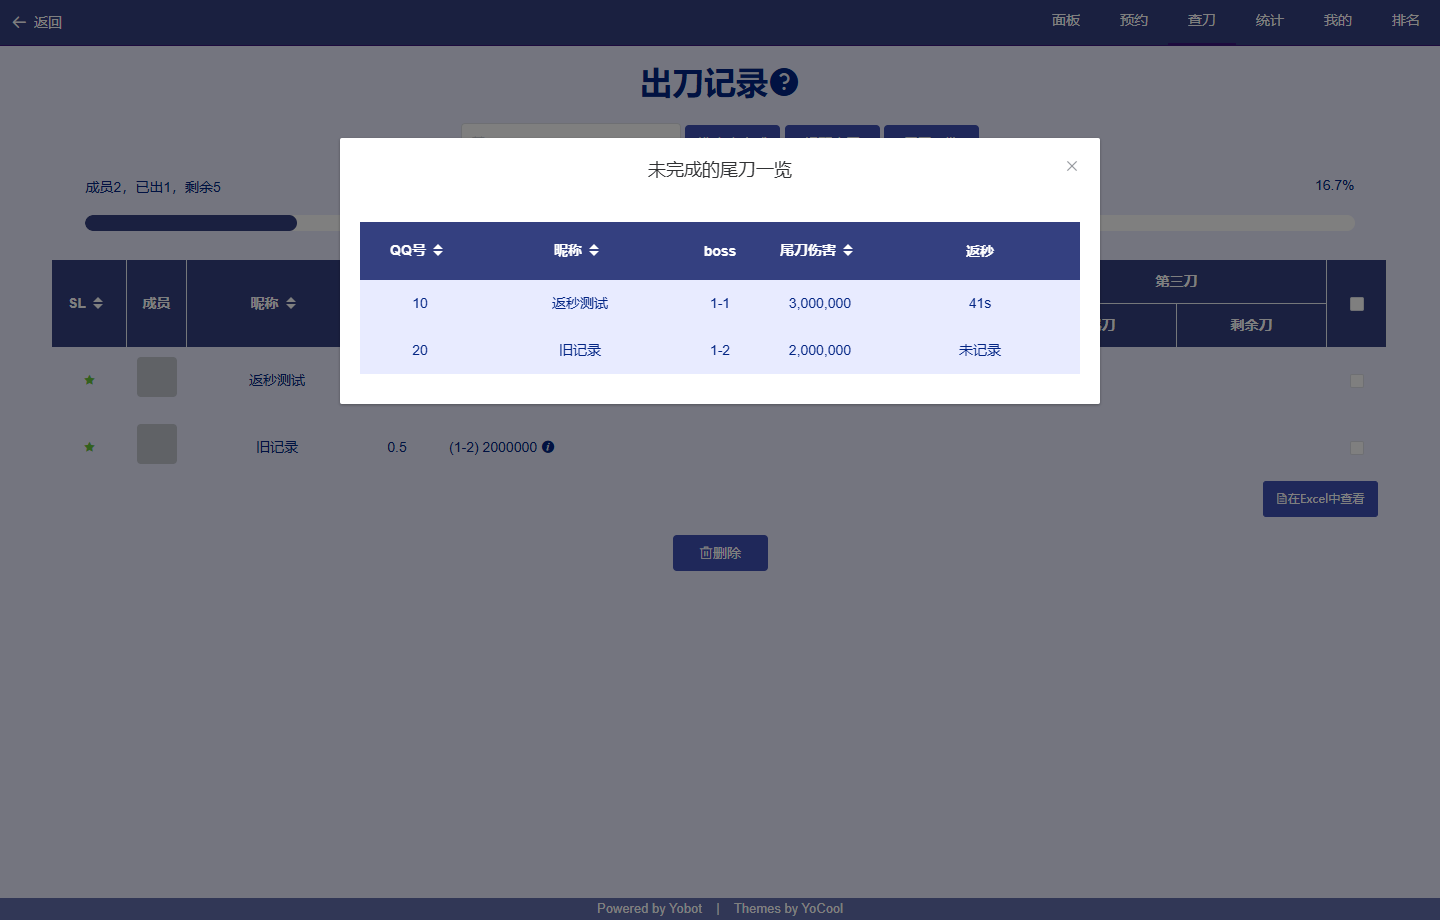
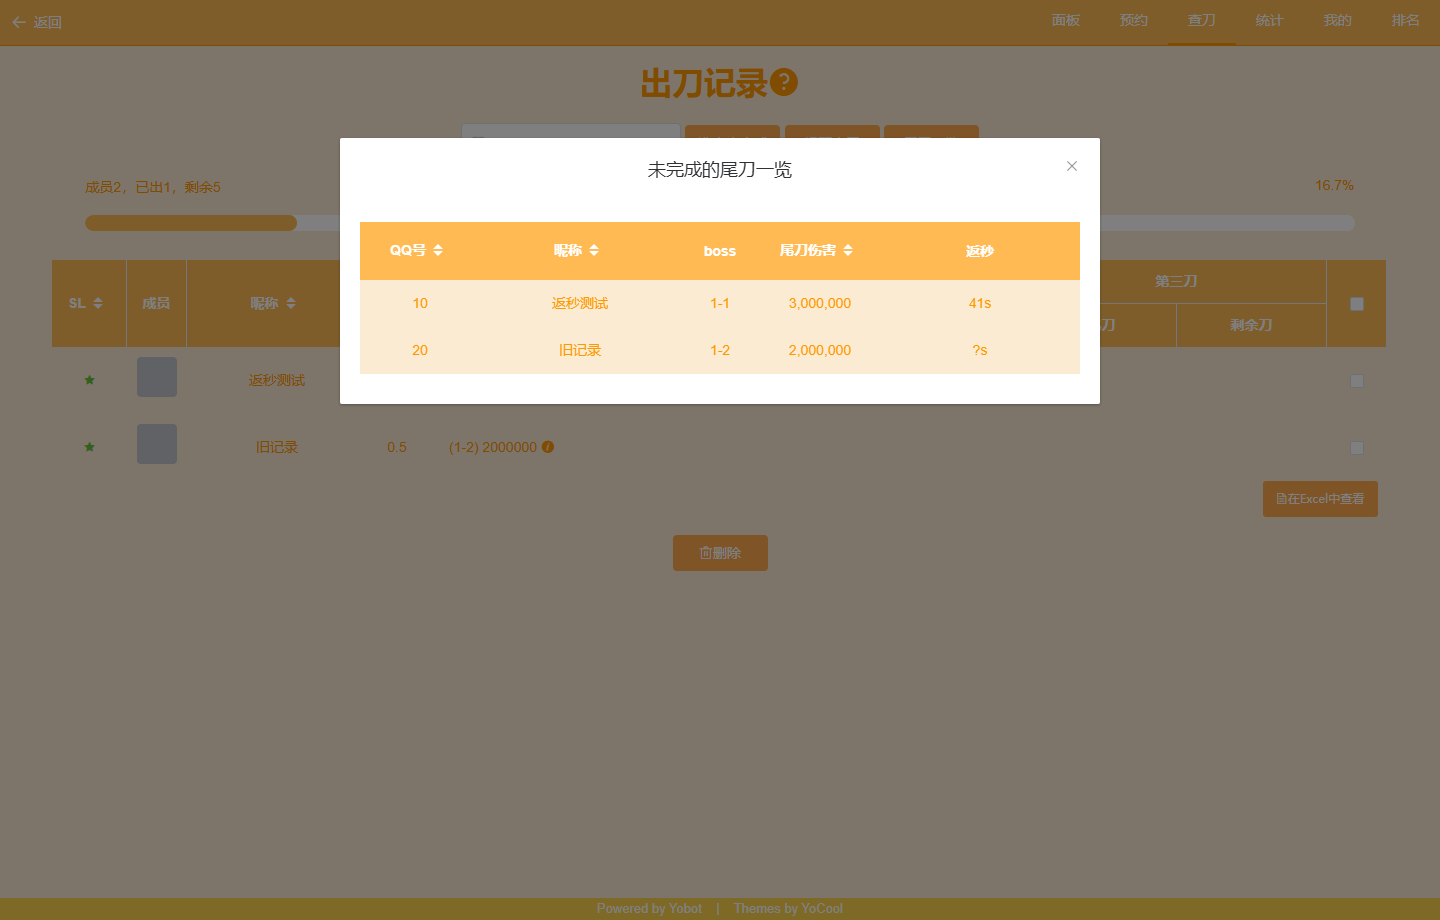
fix: start status stages at B and compact compensation seconds

diff --git a/src/client/public/template/help.html b/src/client/public/template/help.html
@@ -119,7 +119,7 @@
                     若已申请出刀，可以不指定boss<br>
                     一般情况下不需要指定为补偿，会自动选择<br>
                     如果有at则为代报；不支持留言<br>
-                    返秒可省略，范围0–90，支持s/S/秒，也可写在指令末尾。查刀的尾刀列表和状态图片补偿区显示返秒；旧记录显示“未记录”。<br>
+                    返秒可省略，范围0–90，支持s/S/秒，也可写在指令末尾。查刀的尾刀列表和状态图片补偿区显示返秒；B/C阶段未报返秒默认90s，D阶段未报显示“?s”。<br>
                     如果有“昨日”则将记录添加到前一天<sup class="footnote">2</sup>
                 </td>
             </tr>

diff --git a/src/client/public/static/clan/progress.js b/src/client/public/static/clan/progress.js
@@ -109,7 +109,7 @@ var vm = new Vue({
             return detailstr;
         },
         returnSeconds: function (seconds) {
-            return seconds == null ? '未记录' : seconds + 's';
+            return seconds == null ? '?s' : seconds + 's';
         },
         arraySpanMethod: function ({ row, column, rowIndex, columnIndex }) {
             if (columnIndex >= 4) {

diff --git a/tests/test_return_seconds_display.py b/tests/test_return_seconds_display.py
@@ -12,7 +12,7 @@ from PIL import Image
 
 sys.path.insert(0, str(Path(__file__).resolve().parent))
 import test_battle_service as harness
-from ybplugins.ybdata import Clan_challenge
+from ybplugins.ybdata import Clan_challenge, Clan_group
 from ybplugins.clan_battle.components import realize
 
 
@@ -22,10 +22,10 @@ class ReturnSecondsDisplayTests(unittest.IsolatedAsyncioTestCase):
     group = harness.BattleServiceTests.group
 
     def record(self, qqid=10, seconds=None, compensation=False, date=harness.TODAY,
-               bid=0, gid=100, health=0):
+               bid=0, gid=100, health=0, cycle=1):
         return Clan_challenge.create(gid=gid, bid=bid, qqid=qqid,
                                      challenge_pcrdate=date, challenge_pcrtime=1,
-                                     boss_cycle=1, boss_num=1, boss_health_remain=health,
+                                     boss_cycle=cycle, boss_num=1, boss_health_remain=health,
                                      challenge_damage=20, is_continue=compensation,
                                      return_seconds=seconds)
 
@@ -33,8 +33,8 @@ class ReturnSecondsDisplayTests(unittest.IsolatedAsyncioTestCase):
         for seconds in (41, 0, None):
             self.record(seconds=seconds)
         self.db.execute_sql('PRAGMA reverse_unordered_selects = ON')
-        reports = self.battle.get_report(100, None, None, harness.TODAY)
-        self.assertEqual([r['return_seconds'] for r in reports], [41, 0, None])
+        reports = self.battle.get_report(100, None, None, harness.TODAY, nocache=True)
+        self.assertEqual([r['return_seconds'] for r in reports], [41, 0, 90])
 
     async def test_real_status_image_shows_only_unconsumed_current_seconds(self):
         self.record(seconds=41)
@@ -48,7 +48,7 @@ class ReturnSecondsDisplayTests(unittest.IsolatedAsyncioTestCase):
         with patch.object(realize, 'get_process_image', wraps=realize.get_process_image) as render:
             result = self.battle.challenger_info(100)
         chips = render.call_args.args[1]['补偿']
-        self.assertEqual(chips['10'], '10 23s / 未记录')
+        self.assertEqual(chips['10'], '10 23s / 90s')
         self.assertEqual(chips['30'], '30 0s')
         self.assertNotIn('20', chips)
         encoded = result.split('base64://', 1)[1].split(']', 1)[0]
@@ -56,6 +56,29 @@ class ReturnSecondsDisplayTests(unittest.IsolatedAsyncioTestCase):
             self.assertEqual(image.format, 'JPEG')
             self.assertGreater(image.width, 400)
             self.assertGreater(image.height, 100)
+
+    async def test_stage_defaults_grouping_and_original_tail_stage(self):
+        self.battle.level_by_cycle = {'cn': [[1, 3], [4, 6], [7, 999]]}
+        self.battle.bossinfo['cn'].append([300] * 5)
+        self.record(cycle=1)
+        self.record(cycle=4)
+        self.record(cycle=7)
+        self.record(cycle=7)
+        self.record(cycle=7, seconds=41)
+        Clan_group.update(boss_cycle=7).where(Clan_group.group_id == 100).execute()
+        with patch.object(realize, 'get_process_image', wraps=realize.get_process_image) as render, \
+             patch.object(realize, 'GroupStateBlock', wraps=realize.GroupStateBlock) as block:
+            self.battle.challenger_info(100)
+        self.assertEqual(render.call_args.args[1]['补偿']['10'], '10 90s ×2 / ?s ×2 / 41s')
+        self.assertEqual(block.call_args_list[1].kwargs['data_text'], 'D')
+        self.assertEqual([r['return_seconds'] for r in self.battle.get_report(100, None, None, harness.TODAY, nocache=True)],
+                         [90, 90, None, None, 41])
+        for cycle, label in [(1, 'B'), (4, 'C')]:
+            Clan_group.update(boss_cycle=cycle).where(Clan_group.group_id == 100).execute()
+            self.battle.group_data_list.clear()
+            with patch.object(realize, 'GroupStateBlock', wraps=realize.GroupStateBlock) as block:
+                self.battle.challenger_info(100)
+            self.assertEqual(block.call_args_list[1].kwargs['data_text'], label)
 
 
 class ReturnSecondsFrontendTests(unittest.TestCase):
@@ -79,11 +102,11 @@ app.refresh([record(41), record(23), record(null, true), record(null)]);
 app.viewTails();
 assert.deepStrictEqual(Array.from(app.tailsData, c => c.return_seconds), [23, null]);
 assert.strictEqual(app.returnSeconds(0), '0s');
-assert.strictEqual(app.returnSeconds(null), '未记录');
-assert.strictEqual(app.returnSeconds(undefined), '未记录');
+assert.strictEqual(app.returnSeconds(null), '?s');
+assert.strictEqual(app.returnSeconds(undefined), '?s');
 assert.ok(app.cdetail(record(41)).includes('返秒：41s'));
 assert.ok(app.csummary(record(41)).includes('返41s'));
-assert.ok(app.cdetail(record(null)).includes('返秒：未记录'));
+assert.ok(app.cdetail(record(null)).includes('返秒：?s'));
 assert.ok(!app.cdetail(record(null, true)).includes('返秒：'));
 '''
         result = subprocess.run([node, '-e', code, str(script)], capture_output=True, text=True)

diff --git a/src/client/ybplugins/clan_battle/components/realize.py b/src/client/ybplugins/clan_battle/components/realize.py
@@ -7,6 +7,8 @@ import base64
 import random
 import string
 import asyncio
+from collections import Counter
+from .tail_return_seconds import effective_return_seconds
 import logging
 from pathlib import Path
 from io import BytesIO
@@ -1020,7 +1022,8 @@ def challenger_info(self, group_id):
 	for c in challenges:
 		#如果出完这刀时boss的血量为0，且不是收尾刀
 		if c.boss_health_remain == 0 and not c.is_continue:
-			end_blade_qqid.setdefault(c.qqid, []).append(c.return_seconds)
+			seconds = effective_return_seconds(self, c.boss_cycle, group.game_server, c.return_seconds)
+			end_blade_qqid.setdefault(c.qqid, []).append(seconds)
 		if c.is_continue and c.qqid in end_blade_qqid:
 			end_blade_qqid[c.qqid].pop(0)
 			if not end_blade_qqid[c.qqid]: del end_blade_qqid[c.qqid]
@@ -1029,7 +1032,8 @@ def challenger_info(self, group_id):
 
 	half_challenge_list:Dict[str, Any] = {"style-background-color": (240,240,240)}
 	for qqid, seconds in end_blade_qqid.items():
-		return_times = ' / '.join(f'{s}s' if s is not None else '未记录' for s in seconds)
+		return_times = ' / '.join((f'{s}s' if s is not None else '?s') +
+			(f' ×{count}' if count > 1 else '') for s, count in Counter(seconds).items())
 		half_challenge_list[str(qqid)] = f'{self._get_nickname_by_qqid(qqid)[:4]} {return_times}'
 
 	challenging_list = safe_load_json(group.challenging_member_list)
@@ -1095,7 +1099,7 @@ def challenger_info(self, group_id):
 			),
 			GroupStateBlock(
 				title_text="阶段",
-				data_text=chr(65+level_cycle),
+				data_text=chr(66+level_cycle),
 				title_color=(255, 255, 255),
 				data_color=(255, 255, 255),
 				background_color=_bg_color,
@@ -1216,7 +1220,8 @@ def get_report(self,
 			'damage': c.challenge_damage,
 			'is_continue': c.is_continue,
 			'message': c.message,
-			'return_seconds': c.return_seconds,
+			'return_seconds': effective_return_seconds(self, c.boss_cycle, group.game_server, c.return_seconds)
+				if c.boss_health_remain == 0 else None,
 			'behalf': c.behalf,
 		})
 	return report

diff --git a/src/client/ybplugins/clan_battle/components/battle_service.py b/src/client/ybplugins/clan_battle/components/battle_service.py
@@ -18,6 +18,7 @@ from .challenge_state import ChallengeState
 from .report_undo import BattleSnapshot, reverse_report
 from .battle_state import after_commit, atomic_battle_operation, count_blades, validate_battle_id, validate_boss_number
 from .performance import forget_weights
+from .tail_return_seconds import effective_return_seconds
 from .realize import get_clan_group, safe_load_json, future_operation, check_next_boss, subscribe_remind, send_group_notification
 
 _logger = logging.getLogger(__name__)
@@ -221,6 +222,8 @@ def challenge(self, group_id, qqid, defeat, damage=0, behalfed=None,
 
     # All rejection paths above leave the database and application state intact.
     challenge_damage = target_health[boss_num] if defeat else damage
+    if defeat:
+        return_seconds = effective_return_seconds(self, boss_cycle, group.game_server, return_seconds)
     target_health[boss_num] -= challenge_damage
     health_remaining = target_health[boss_num]
     report = Clan_challenge.create(

diff --git a/tests/test_tail_seconds.py b/tests/test_tail_seconds.py
@@ -71,5 +71,15 @@ class TailSecondsTests(unittest.IsolatedAsyncioTestCase):
 
     async def test_old_tail_without_seconds_still_works(self):
         self.command('尾刀 1')
-        self.assertIsNone(Clan_challenge.get().return_seconds)
+        self.assertEqual(Clan_challenge.get().return_seconds, 90)
 
+    async def test_omitted_seconds_saved_by_original_stage(self):
+        from ybplugins.ybdata import Clan_group
+        self.battle.level_by_cycle = {'cn': [[1, 3], [4, 6], [7, 999]]}
+        self.battle.bossinfo['cn'].append([300] * 5)
+        for cycle, seconds in [(4, 90), (7, None)]:
+            with self.subTest(cycle=cycle):
+                Clan_group.update(boss_cycle=cycle).where(Clan_group.group_id == 100).execute()
+                self.command('尾刀 1')
+                self.assertEqual(Clan_challenge.select().order_by(Clan_challenge.cid.desc()).get().return_seconds, seconds)
+                self.battle.undo(100, 10)

diff --git a/src/client/ybplugins/clan_battle/components/tail_return_seconds.py b/src/client/ybplugins/clan_battle/components/tail_return_seconds.py
@@ -1,0 +1,8 @@
+"""Resolve omitted return seconds using the stage of the original tail."""
+
+
+def effective_return_seconds(battle, boss_cycle, game_server, seconds):
+    if seconds is not None:
+        return seconds
+    # Stage indices start at zero: B, C, D, ...
+    return 90 if battle._level_by_cycle(boss_cycle, game_server) in (0, 1) else None

diff --git a/README.md b/README.md
@@ -21,7 +21,7 @@ yobot魔改版，支持新版公会战。<br>
 |取消(出刀/申请) [@某人]/[all]|**出刀状态**下可用<br>退出出刀状态。@某人为取消指定成员的出刀申请，加all则取消所有人的出刀申请|
 |报伤害 ?s?w [@某人] [留言]|**出刀状态**下可用<br>如：**报伤害 2s200w** 或 **报伤害 30000w 还有一个ub**<br>申请出刀后暂停报伤害，第一例意为剩2秒打了200w伤害。可@某人为其报伤害；留言前加空格，无需冒号，状态图片显示该留言|
 |报刀 [-指定boss] [具体伤害] [是否是补偿] [@某人] [昨日]|例1：**报刀 -1 100w** <br> 例2：**报刀 100w@xxx** <br> 例3：**报刀 -1 100w b** （b代表指定补偿）<br>对boss造成伤害但未击败时用，记录伤害，并退出**出刀状态**。<br>**指定boss需要在前面加个-（横杠）**，若在**出刀状态**，可以不指定boss<br>一般情况下不需要指定为补偿，会自动选择<br>如果有at则为代报；不支持留言<br>如果有“昨日”则将记录添加到前一天|
-|尾刀 [指定boss] [返秒s] [是否是补偿] [@某人] [昨日]|同上，不需要具体伤害，指定boss时前面不需要加-（横杠）<br>如：**尾刀 41s**（需先申请出刀）或 **尾刀 1 41s**；返秒可省略，范围0–90，支持s/S/秒，也可写在指令末尾<br>返秒保存到尾刀记录，查刀的尾刀列表和状态图片补偿区显示；旧记录显示“未记录”。不支持留言|
+|尾刀 [指定boss] [返秒s] [是否是补偿] [@某人] [昨日]|同上，不需要具体伤害，指定boss时前面不需要加-（横杠）<br>如：**尾刀 41s**（需先申请出刀）或 **尾刀 1 41s**；返秒可省略，范围0–90，支持s/S/秒，也可写在指令末尾<br>返秒保存到尾刀记录，查刀的尾刀列表和状态图片补偿区显示；B/C阶段未报返秒默认90s，D阶段未报显示“?s”。不支持留言|
 |状态|显示所有boss的当前状态，且可看到当前正在挑战的成员、报伤害、挂树情况|
 |挂树|**出刀状态**下可用|
 |手动添加群记录|修复多CQ适配（修复网页催刀报刀不在群里通知）|

diff --git a/docs/refactoring.md b/docs/refactoring.md
@@ -52,6 +52,6 @@ python -m venv .venv
 
 升级前备份数据目录，包括数据库及其 WAL 数据，优先在机器人停止后备份。先用测试公会验证命令、补偿与群通知，再替换实际服务。本轮没有启动真实机器人或构建 Docker 镜像。
 
-启动时数据库版本自动升级到 4：版本 2 及以下补建 `Clan_challenge_undo` 表和索引，版本 3 及以下在报刀表新增可空的 `return_seconds` 返秒字段。旧报刀及成员数据保留，旧尾刀返秒为空，显示“未记录”。升级失败时事务回滚。旧程序会拒绝打开版本 4 的数据库；回退程序应同时恢复升级前的数据备份，不要手改版本号。
+启动时数据库版本自动升级到 4：版本 2 及以下补建 `Clan_challenge_undo` 表和索引，版本 3 及以下在报刀表新增可空的 `return_seconds` 返秒字段。旧报刀及成员数据保留，旧尾刀返秒字段为空，按原尾刀阶段显示：B/C为90s，D为?s。升级失败时事务回滚。旧程序会拒绝打开版本 4 的数据库；回退程序应同时恢复升级前的数据备份，不要手改版本号。
 
 仍需单独处理运行时及依赖升级、登录会话撤销、自动备份恢复入口、持久化通知重试，以及多实例的网页长轮询与只读缓存同步。现有 Docker 基础镜像和旧框架的升级需要兼容性验证，本轮不与会战服务迁移混做。

diff --git a/docs/damage-notes-tail-seconds.md b/docs/damage-notes-tail-seconds.md
@@ -4,7 +4,7 @@
 
 尾刀可记录返秒，例如 `尾刀 41s`（已申请出刀）或 `尾刀 1 41s`（指定1王）。返秒支持 `s`、`S`、`秒`，范围0–90，可省略，也可放在其他参数之后：`尾刀 1 b @成员 昨日 41s`。报刀、尾刀均不支持留言。
 
-返秒保存到对应报刀记录，在查刀的尾刀格、详情提示和“尾刀一览”中显示。状态图片的补偿区显示当前公会、档案及会战日尚未消耗的补偿返秒；多个补偿依出刀先后排列、消耗。旧记录显示“未记录”，不会猜测返秒。
+返秒保存到对应报刀记录，在查刀的尾刀格、详情提示和“尾刀一览”中显示。状态图片的补偿区显示当前公会、档案及会战日尚未消耗的补偿返秒；多个补偿依出刀先后消耗，相同返秒合并为数量，例如“90s ×3”。阶段标签从B开始。B/C阶段未报返秒默认90s，D阶段未报显示“?s”。
 
 ![查刀尾刀一览](ui/tail-seconds-web.png)
 
